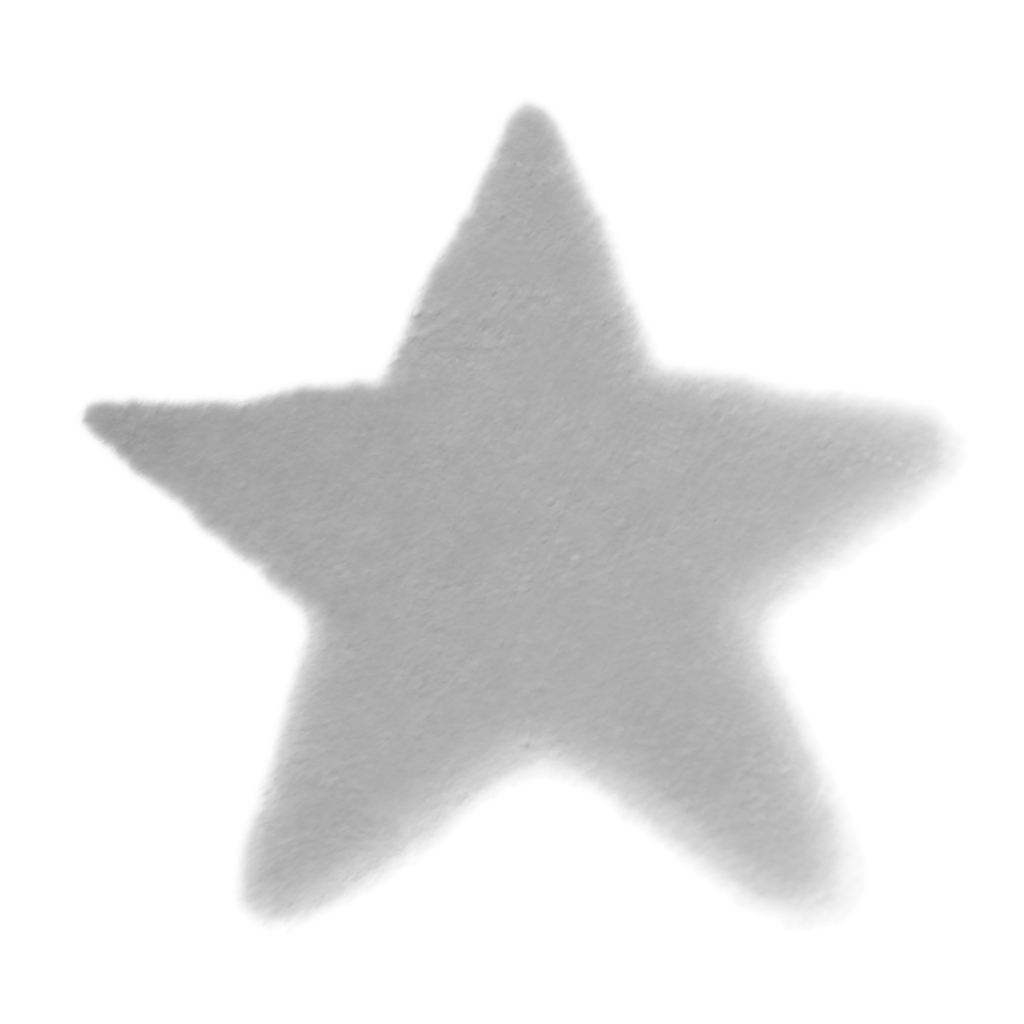
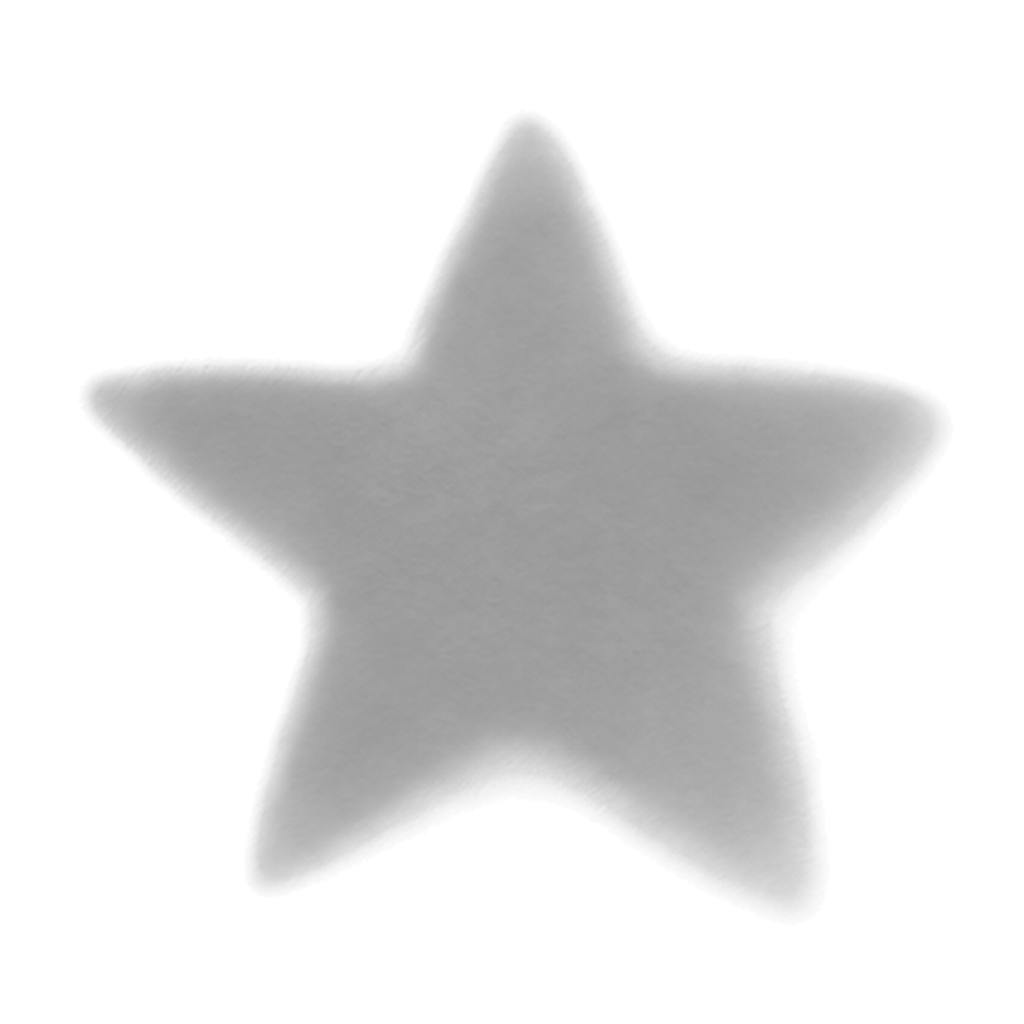
Aura: full ESP Shadows set from one matching photo; multi-shadow extractor
Claude-Session: https://claude.ai/code/session_01DsL1YbwDSbYyjffvMyJ5we

diff --git a/public/aura.js b/public/aura.js
@@ -22,7 +22,7 @@
   // real photographed effects, multiplied onto the photo (white = no change).
   const SETS = {
     light: { type: "vector", shapes: SHAPES },
-    shadow: { type: "image", blend: "multiply", files: { star: "/sets/shadow/star.png" } },
+    shadow: { type: "image", blend: "multiply", files: Object.fromEntries(SHAPES.map((k) => [k, `/sets/shadow/${k}.png?v=2`])) },
   };
   let currentSet = SETS[params.get("set")] ? params.get("set") : "light";
   const images = {};

diff --git a/public/aura.html b/public/aura.html
@@ -64,6 +64,6 @@
   <div id="preview" hidden><img id="previewImg" alt=""><p>debug preview: tap to close</p></div>
   <div id="debug" hidden></div>
 
-  <script src="/aura.js?v=14"></script>
+  <script src="/aura.js?v=15"></script>
 </body>
 </html>

diff --git a/tools/extract_shadows.py b/tools/extract_shadows.py
@@ -1,0 +1,88 @@
+"""Cut several cast shadows out of one wall photo.
+
+Usage: python3 extract_shadows.py photo.png out_dir name1 name2 ...
+Names are given in reading order (top row left to right, then the next row).
+
+The bare wall is estimated with a smooth surface fitted to the lit pixels;
+dividing by it turns the wall pure white and leaves only each shadow's
+darkening, as a neutral grey layer for multiply blending. Parts of one symbol
+that are close together (e.g. three wavy lines) are kept as one.
+"""
+import sys, os
+import numpy as np
+from PIL import Image, ImageFilter
+from scipy import ndimage
+
+src, out_dir, names = sys.argv[1], sys.argv[2], sys.argv[3:]
+os.makedirs(out_dir, exist_ok=True)
+a = np.asarray(Image.open(src).convert("RGB")).astype(np.float64) / 255.0
+lum = a @ np.array([0.2126, 0.7152, 0.0722])
+H, W = lum.shape
+
+# 1. Bare-wall estimate from the brightest pixels (iterate: fit, drop shadows, refit).
+yy, xx = np.mgrid[0:H, 0:W]
+u, v = xx / W, yy / H
+X = np.stack([np.ones_like(u), u, v, u * u, v * v, u * v, u ** 3, v ** 3], -1)
+lit = lum > np.percentile(lum, 50)
+for _ in range(3):
+    coef, *_ = np.linalg.lstsq(X[lit][::5], lum[lit][::5], rcond=None)
+    bg = X @ coef
+    lit = lum > bg * 0.95
+ratio = np.clip(lum / np.maximum(bg, 1e-3), 0, 1)
+
+# 2. Clean the bare wall to pure white, keep texture inside the shadows (softened).
+smooth = np.asarray(Image.fromarray((ratio * 255).astype(np.uint8)).filter(ImageFilter.GaussianBlur(6))).astype(np.float64) / 255
+inside = np.clip((0.93 - smooth) / 0.08, 0, 1)
+soft = np.asarray(Image.fromarray((ratio * 255).astype(np.uint8)).filter(ImageFilter.GaussianBlur(2))).astype(np.float64) / 255
+ratio = 0.4 * ratio + 0.6 * soft
+ratio = 1 - (1 - ratio) * inside
+ratio = np.where(ratio > 0.985, 1.0, ratio)
+
+# 3. Find each symbol: shadow pixels, grown so nearby parts merge into one.
+mask = smooth < 0.9
+grown = ndimage.binary_dilation(mask, iterations=max(6, int(min(H, W) * 0.035)))
+labels, n = ndimage.label(grown)
+boxes = []
+for i, sl in enumerate(ndimage.find_objects(labels), 1):
+    part = mask[sl] & (labels[sl] == i)
+    if part.sum() < H * W * 0.004:   # ignore specks
+        continue
+    ys, xs = np.where(part)
+    boxes.append((ys.min() + sl[0].start, ys.max() + sl[0].start, xs.min() + sl[1].start, xs.max() + sl[1].start))
+
+# Reading order: group into rows by vertical centre, then left to right.
+boxes.sort(key=lambda b: (b[0] + b[1]) / 2)
+rows, row_h = [], max(b[1] - b[0] for b in boxes)
+for b in boxes:
+    cy = (b[0] + b[1]) / 2
+    if rows and abs(cy - rows[-1][0]) < row_h * 0.6:
+        rows[-1][1].append(b)
+    else:
+        rows.append([cy, [b]])
+ordered = [b for _, r in rows for b in sorted(r, key=lambda b: b[2])]
+print(f"found {len(ordered)} symbols")
+if len(ordered) != len(names):
+    sys.exit(f"expected {len(names)} symbols, found {len(ordered)}")
+
+# 4. Crop each into a square, symbol spanning ~84%, feathered to white at the border.
+for name, (y0, y1, x0, x1) in zip(names, ordered):
+    cy, cx = (y0 + y1) / 2, (x0 + x1) / 2
+    half = max(y1 - y0, x1 - x0) / 2 / 0.84
+    size = int(half * 2)
+    canvas = np.ones((size, size))
+    oy, ox = int(cy - half), int(cx - half)
+    sy0, sx0, sy1, sx1 = max(0, oy), max(0, ox), min(H, oy + size), min(W, ox + size)
+    canvas[sy0 - oy:sy1 - oy, sx0 - ox:sx1 - ox] = ratio[sy0:sy1, sx0:sx1]
+    # Keep only this symbol (blank out neighbours that fall inside the square).
+    own = np.zeros((size, size), bool)
+    lab = labels[sy0:sy1, sx0:sx1]
+    mid = labels[int(cy), int(cx)] or np.bincount(lab[mask[sy0:sy1, sx0:sx1]]).argmax()
+    own[sy0 - oy:sy1 - oy, sx0 - ox:sx1 - ox] = lab == mid
+    own = ndimage.binary_dilation(own, iterations=4)
+    canvas = np.where(own, canvas, 1.0)
+    edge = max(2, int(size * 0.04))
+    ramp = np.ones(size); ramp[:edge] = np.linspace(0, 1, edge); ramp[-edge:] = np.linspace(1, 0, edge)
+    canvas = 1 - (1 - canvas) * np.minimum.outer(ramp, ramp)
+    img = Image.fromarray((canvas * 255).round().astype(np.uint8), "L").resize((1024, 1024), Image.LANCZOS)
+    img.save(os.path.join(out_dir, name + ".png"), optimize=True)
+    print("saved", name, f"{x1 - x0}x{y1 - y0}px source", "darkest", round(float(canvas.min()), 2))
